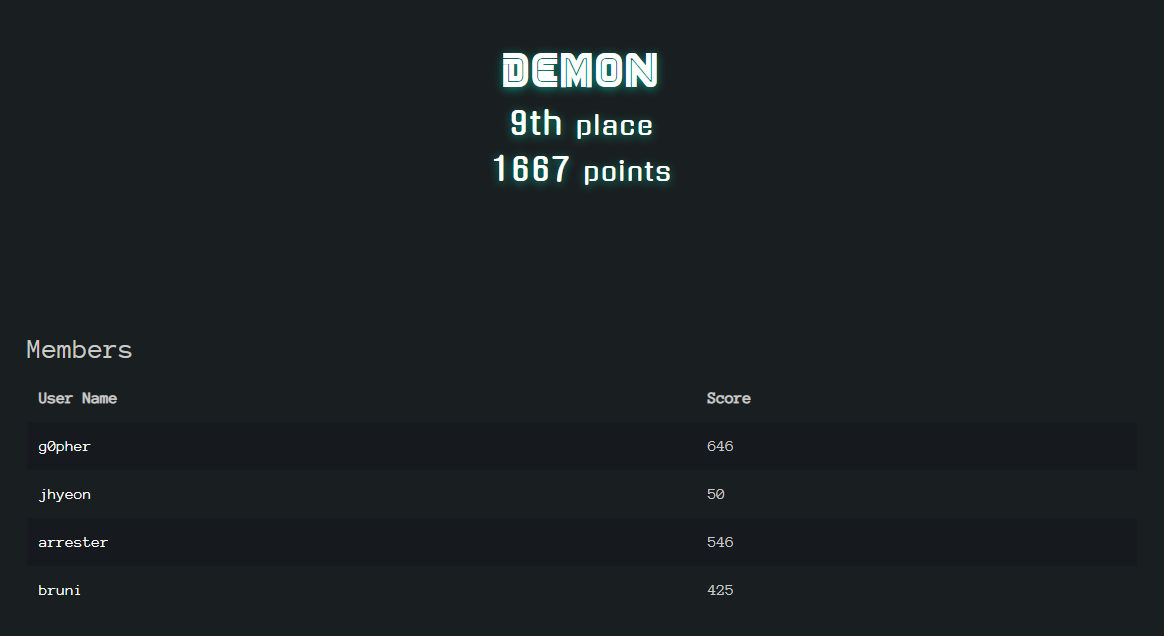
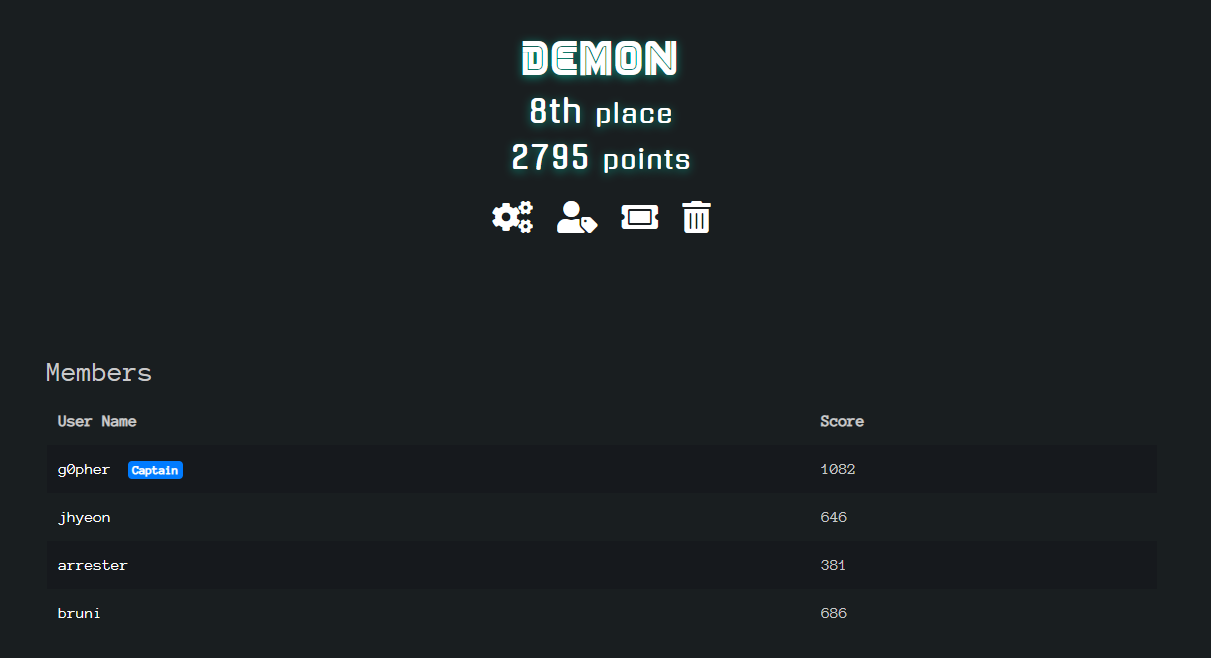
[g0pher] 2021/08/29 updated

diff --git a/g0pher/202108.md b/g0pher/202108.md
@@ -53,4 +53,6 @@
 
 ## Day 29
 1. wormcon CTF 종료. 최종 8등!
-    ![wormcon](./resource/wormcon.png)
+    ![wormcon](./resource/wormcon.PNG)
+2. wormcon CTF 문제 Demon 레포에 정리
+    ![demon](./resource/wormcon2.PNG)
